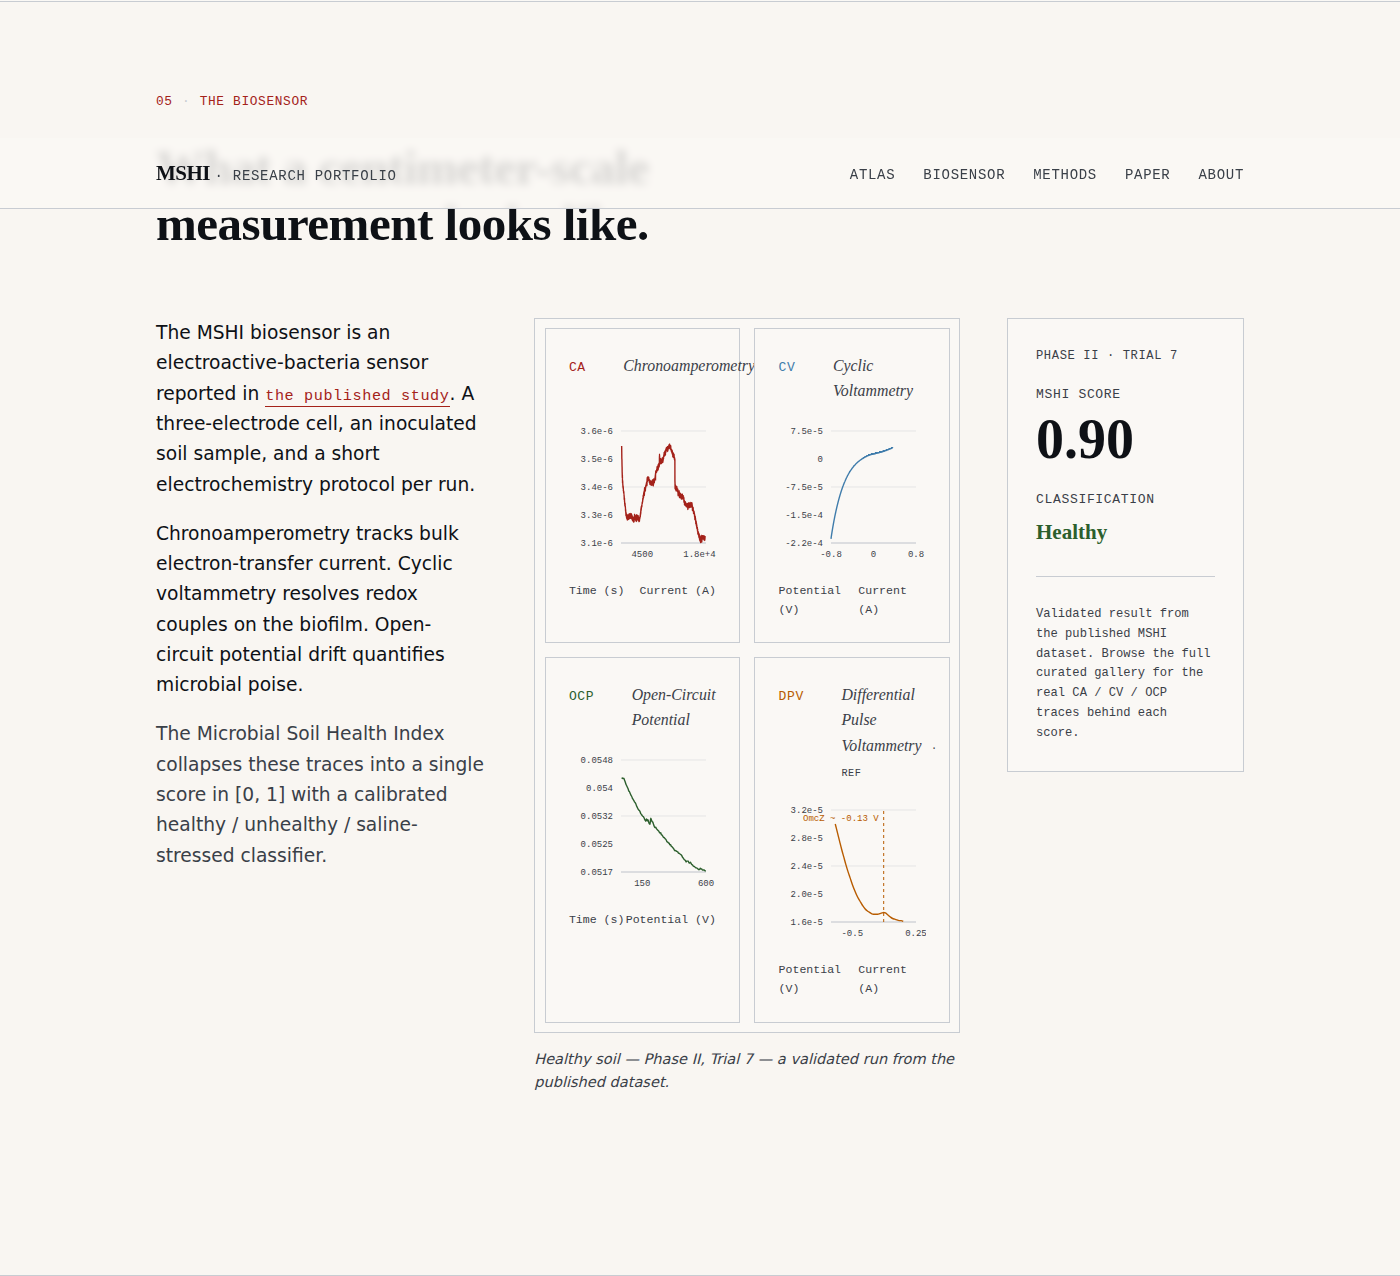
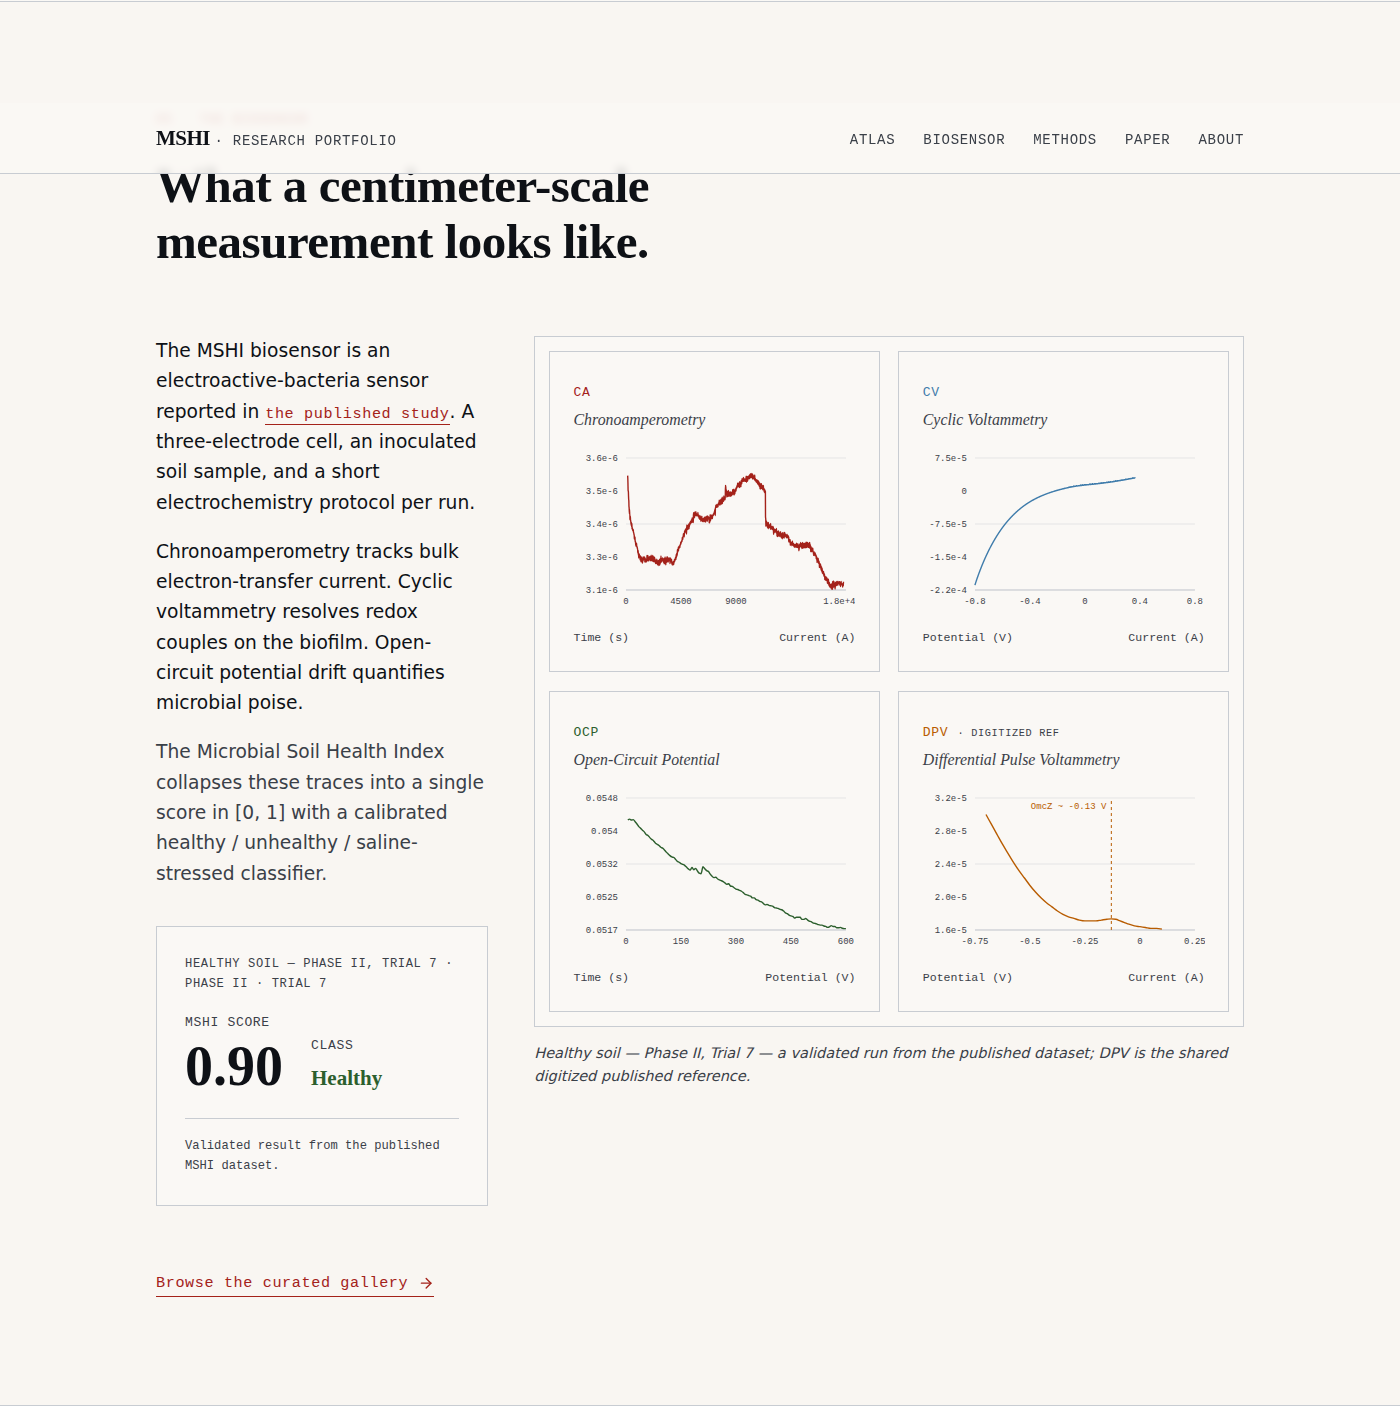
Biosensor: stacked panel headers, fix dialog centering, expand box
- Panel headers stacked (code over full name, break-words, reserved
  height): "Chronoamperometry" etc. no longer clip or bleed across
  cells; every label stays within its own panel.
- Fix a latent dialog bug: the fade-in keyframe (fill forwards, animates
  transform) overwrote the -translate-x/y-1/2 centering, pushing a wide
  dialog off-screen. DialogContent now uses an opacity-only entrance and
  a responsive w-[92vw] max-w-4xl with overflow-x-hidden — verified
  centered and contained at 1024/1280/1500 px.
- Expand the box: home section rebalanced (prose + compact score in a
  4-col column; roomy 8-col 2×2 trace grid); min-w-0 guards throughout.

typecheck + build clean; GATE 2 PASS (26 checks).

https://claude.ai/code/session_01UQKGRhhKJ1d7qNgTUnmpBb

diff --git a/src/components/home/section-biosensor.tsx b/src/components/home/section-biosensor.tsx
@@ -40,7 +40,7 @@ export function SectionBiosensor() {
         </Reveal>
 
         <div className="mt-14 grid gap-10 md:grid-cols-12">
-          {/* Left: prose */}
+          {/* Left: prose + compact score */}
           <Reveal className="md:col-span-4" delayMs={80}>
             <div className="text-[1rem] leading-relaxed text-ink">
               <p>
@@ -63,50 +63,50 @@ export function SectionBiosensor() {
                 unhealthy / saline-stressed classifier.
               </p>
             </div>
+
+            <div className="mt-8 border border-rule bg-paper p-6">
+              <p className="font-mono text-[0.65rem] uppercase tracking-meta text-ink-soft">
+                {featured.name} · {featured.phase} · Trial{' '}
+                {featured.trial_id}
+              </p>
+              <div className="mt-4 flex items-end gap-6">
+                <div>
+                  <p className="font-mono text-[0.7rem] uppercase tracking-meta text-ink-soft">
+                    MSHI score
+                  </p>
+                  <p className="mt-1 font-serif text-5xl font-bold leading-none text-ink">
+                    {featured.mshi_score.toFixed(2)}
+                  </p>
+                </div>
+                <div>
+                  <p className="font-mono text-[0.7rem] uppercase tracking-meta text-ink-soft">
+                    Class
+                  </p>
+                  <p
+                    className={`mt-1 font-serif text-lg font-bold ${
+                      CLASS_COLOR[featured.classification] ?? 'text-ink'
+                    }`}
+                  >
+                    {CLASS_LABEL[featured.classification] ??
+                      featured.classification}
+                  </p>
+                </div>
+              </div>
+              <p className="mt-5 border-t border-rule pt-4 font-mono text-[0.65rem] leading-relaxed text-ink-soft">
+                Validated result from the published MSHI dataset.
+              </p>
+            </div>
           </Reveal>
 
-          {/* Center: real trace panel */}
-          <Reveal className="md:col-span-5" delayMs={140}>
-            <div className="border border-rule bg-paper p-2">
+          {/* Right: real trace panel — full width for the 2×2 grid */}
+          <Reveal className="md:col-span-8" delayMs={140}>
+            <div className="border border-rule bg-paper p-3">
               <ElectrochemTraces sample={featured} dpv={dpv} />
             </div>
             <p className="mt-3 text-[0.78rem] italic text-ink-soft">
-              {featured.name} — a validated run from the published dataset.
+              {featured.name} — a validated run from the published dataset;
+              DPV is the shared digitized published reference.
             </p>
-          </Reveal>
-
-          {/* Right: real MSHI score card */}
-          <Reveal className="md:col-span-3" delayMs={200}>
-            <div className="border border-rule bg-paper p-6">
-              <p className="font-mono text-[0.65rem] uppercase tracking-meta text-ink-soft">
-                {featured.phase} · Trial {featured.trial_id}
-              </p>
-              <p className="mt-4 font-mono text-[0.7rem] uppercase tracking-meta text-ink-soft">
-                MSHI score
-              </p>
-              <p className="mt-1 font-serif text-5xl font-bold leading-none text-ink">
-                {featured.mshi_score.toFixed(2)}
-              </p>
-              <p className="mt-5 font-mono text-[0.7rem] uppercase tracking-meta text-ink-soft">
-                Classification
-              </p>
-              <p
-                className={`mt-1 font-serif text-lg font-bold ${
-                  CLASS_COLOR[featured.classification] ?? 'text-ink'
-                }`}
-              >
-                {CLASS_LABEL[featured.classification] ??
-                  featured.classification}
-              </p>
-
-              <hr className="my-6 border-rule" />
-
-              <p className="font-mono text-[0.65rem] leading-relaxed text-ink-soft">
-                Validated result from the published MSHI dataset. Browse the
-                full curated gallery for the real CA / CV / OCP traces behind
-                each score.
-              </p>
-            </div>
           </Reveal>
         </div>
 

diff --git a/src/components/biosensor/electrochem-traces.tsx b/src/components/biosensor/electrochem-traces.tsx
@@ -57,24 +57,24 @@ interface Panel {
 
 function ChartPanel({ panel }: { panel: Panel }) {
   return (
-    <div className="flex h-full flex-col border border-rule bg-paper p-5">
-      <div className="flex min-h-[2.75rem] items-baseline justify-between gap-x-8">
+    <div className="flex h-full min-w-0 flex-col overflow-hidden border border-rule bg-paper p-5">
+      <div className="min-h-[3.25rem]">
         <span
           className="font-mono text-[0.7rem] uppercase tracking-meta"
           style={{ color: panel.color }}
         >
           {panel.code}
-        </span>
-        <span className="font-serif text-[0.85rem] italic text-ink-soft">
-          {panel.name}
           {panel.reference ? (
-            <span className="ml-2 not-italic font-mono text-[0.55rem] uppercase tracking-meta text-ink-soft">
-              · ref
+            <span className="ml-2 text-[0.55rem] text-ink-soft">
+              · digitized ref
             </span>
           ) : null}
         </span>
+        <span className="mt-1 block break-words font-serif text-[0.85rem] italic leading-tight text-ink-soft">
+          {panel.name}
+        </span>
       </div>
-      <div className="mt-4 h-[150px] w-full">
+      <div className="mt-3 h-[170px] w-full">
         <ResponsiveContainer width="100%" height="100%">
           <LineChart
             data={panel.data}
@@ -196,7 +196,12 @@ export function ElectrochemTraces({
   }
 
   return (
-    <div className={cn('grid grid-cols-1 gap-3 sm:grid-cols-2', className)}>
+    <div
+      className={cn(
+        'grid min-w-0 grid-cols-1 gap-4 sm:grid-cols-2',
+        className,
+      )}
+    >
       {panels.map((panel) => (
         <ChartPanel key={panel.code} panel={panel} />
       ))}

diff --git a/src/components/ui/dialog.tsx b/src/components/ui/dialog.tsx
@@ -34,7 +34,11 @@ const DialogContent = React.forwardRef<
     <DialogPrimitive.Content
       ref={ref}
       className={cn(
-        'fixed left-1/2 top-1/2 z-50 grid w-full max-w-3xl -translate-x-1/2 -translate-y-1/2 gap-4 border border-rule bg-paper p-8 shadow-2xl data-[state=open]:animate-fade-in',
+        // NOTE: keep an opacity-only entrance (fade-in-slow). The
+        // transform-animating `fade-in` keyframe has fill `forwards` and
+        // would overwrite the -translate-x/y-1/2 centering, throwing the
+        // dialog off-centre (and off-screen for wide content).
+        'fixed left-1/2 top-1/2 z-50 grid max-h-[85vh] w-[92vw] max-w-4xl -translate-x-1/2 -translate-y-1/2 gap-4 overflow-y-auto overflow-x-hidden border border-rule bg-paper p-8 shadow-2xl data-[state=open]:animate-fade-in-slow',
         className,
       )}
       {...props}

diff --git a/src/components/biosensor/sample-card.tsx b/src/components/biosensor/sample-card.tsx
@@ -101,7 +101,7 @@ export function SampleCard({ sample, dpv }: SampleCardProps) {
         </button>
       </DialogTrigger>
 
-      <DialogContent className="max-h-[90vh] overflow-y-auto">
+      <DialogContent>
         <DialogTitle>
           {sample.name}
           <span
@@ -121,9 +121,9 @@ export function SampleCard({ sample, dpv }: SampleCardProps) {
         </DialogDescription>
 
         <div className="mt-6 grid gap-6 md:grid-cols-12">
-          <div className="md:col-span-8">
+          <div className="min-w-0 md:col-span-8">
             <p className="meta-label">Electrochemistry traces</p>
-            <div className="mt-3">
+            <div className="mt-3 min-w-0">
               <ElectrochemTraces sample={sample} dpv={dpv} />
             </div>
             <p className="mt-3 font-mono text-[0.65rem] leading-relaxed text-ink-soft">

diff --git a/COMMIT_NOTES.md b/COMMIT_NOTES.md
@@ -39,6 +39,18 @@ reference, not that sample's measurement (corpus still has no per-sample
 DPV; none fabricated). Phase II → CA·CV·OCP·DPV (2×2); Phase I →
 CA·CV·DPV. Verifier updated; GATE 2 PASS.
 
+**Round 3 (visual cleanup).** Panel headers were clipping ("Chronoampe…")
+and bleeding across cells because code↔name shared one line with a wide
+gap. Headers are now stacked (code over full name, `break-words`, reserved
+height) so every label stays inside its panel. Found and fixed a
+pre-existing dialog bug: the `fade-in` keyframe (fill `forwards`,
+animates `transform`) overwrote the `-translate-x/y-1/2` centering, so a
+wide dialog rendered off-centre/off-screen — switched DialogContent to an
+opacity-only entrance and a responsive `w-[92vw] max-w-4xl` with
+`overflow-x-hidden`; verified centered + contained at 1024/1280/1500 px.
+Home section rebalanced (prose + compact score in a 4-col column; the
+2×2 trace box gets a roomy 8-col column). typecheck + build clean; GATE 2 PASS.
+
 ## What shipped
 
 **Phase 0 — verify real data (PASS).** Pulled `biosensor_samples/` from
